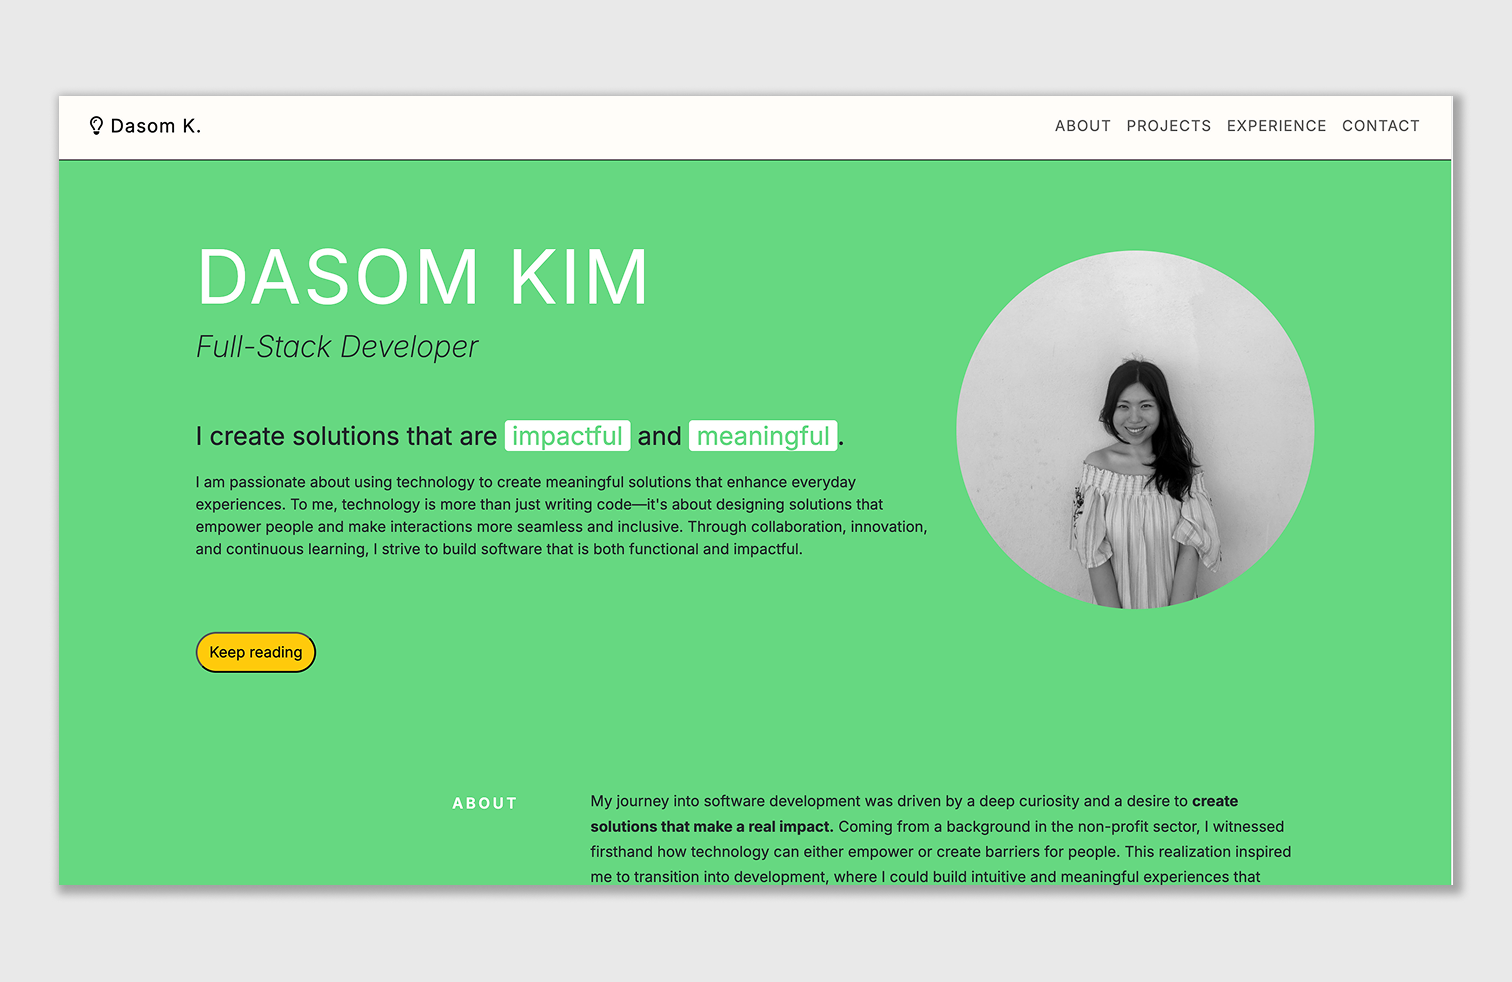
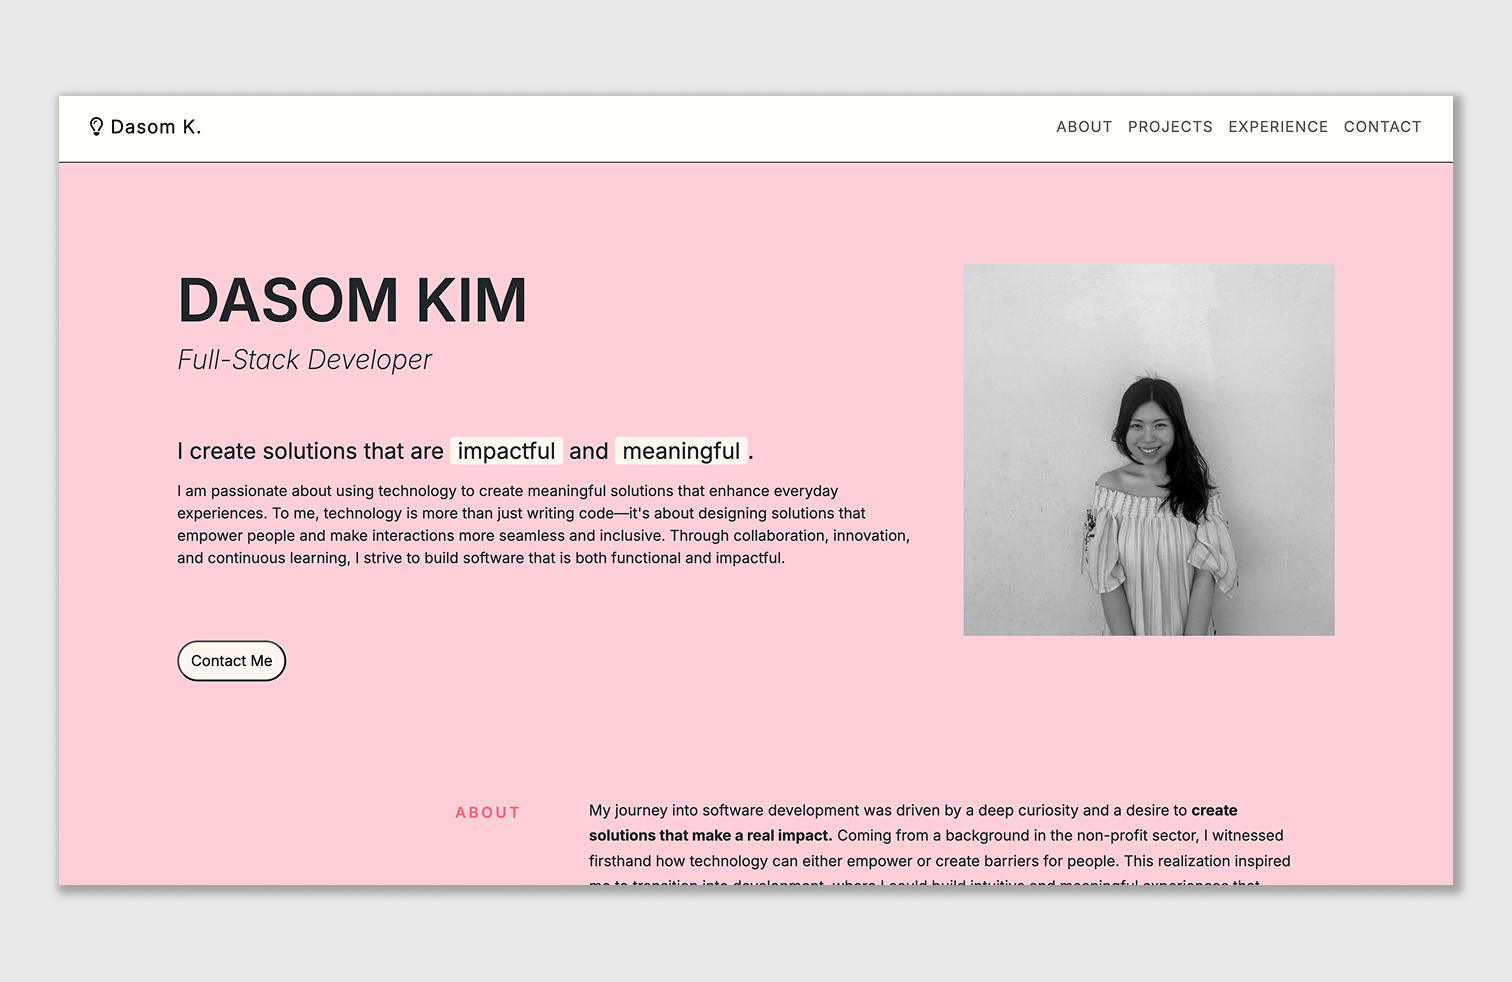
Changed design

diff --git a/styles.css b/styles.css
@@ -39,7 +39,7 @@ body {
 
 .intro-heading-primary {
     margin-bottom: 0.5rem;
-    font-size: 2.5rem;
+    font-size: 3.5rem;
     text-transform: uppercase;
     font-weight: 600;
     /* letter-spacing: 3px; */
@@ -68,7 +68,7 @@ body {
 .highlight {
     padding: 0 0.5rem;
     border-radius: 4px;
-    background: #ffffff;
+    background: #fff7ef;
     /* color: rgb(255, 102, 124); */
 }
 
@@ -112,7 +112,7 @@ body {
 .btn-more {
     padding: 0.5rem 0.8rem;
     border-radius: 24px;
-    background-color: rgb(255, 255, 255);
+    background-color: #fff7ef;
 }
 
 .btn-more:hover {
@@ -205,11 +205,12 @@ body {
 .skills {
     border-radius: 24px;
     border: 1px solid black;
-    background-color: white;
+    background-color: #fff9f3;
     padding: 0.3rem 0.5rem;
     font-size: 0.9rem;
     margin-right: 3px;
     margin-bottom: 3px;
+    
 }
 
 .card-img-top {
@@ -222,6 +223,7 @@ body {
     border-top-left-radius: 2rem; */
     border-radius: 0;
     border: none;
+    background-color: #fff9f3;
 }
 
 .project_type {
@@ -293,7 +295,7 @@ body {
 
 
 .category-content a:hover {
-    color: rgb(255, 166, 0);
+    color:  rgb(255, 102, 124);
     text-decoration: underline;
 }
 
@@ -314,10 +316,16 @@ body {
 
 .accordion-item {
     margin-bottom: 1rem;
+    background-color: #fff9f3;
 }
 
 .accordion-body {
     font-size: 0.9rem;
+    background-color: #fff9f3;
+}
+
+.accordion-button {
+    background-color: #fff9f3;
 }
 
 .accordion-button:not(.collapsed) {
